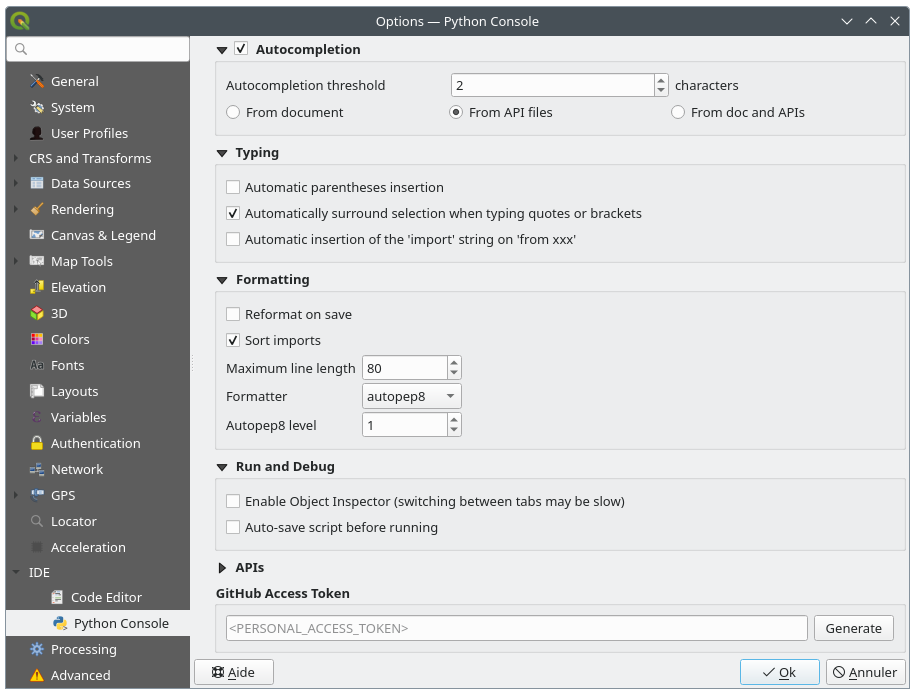
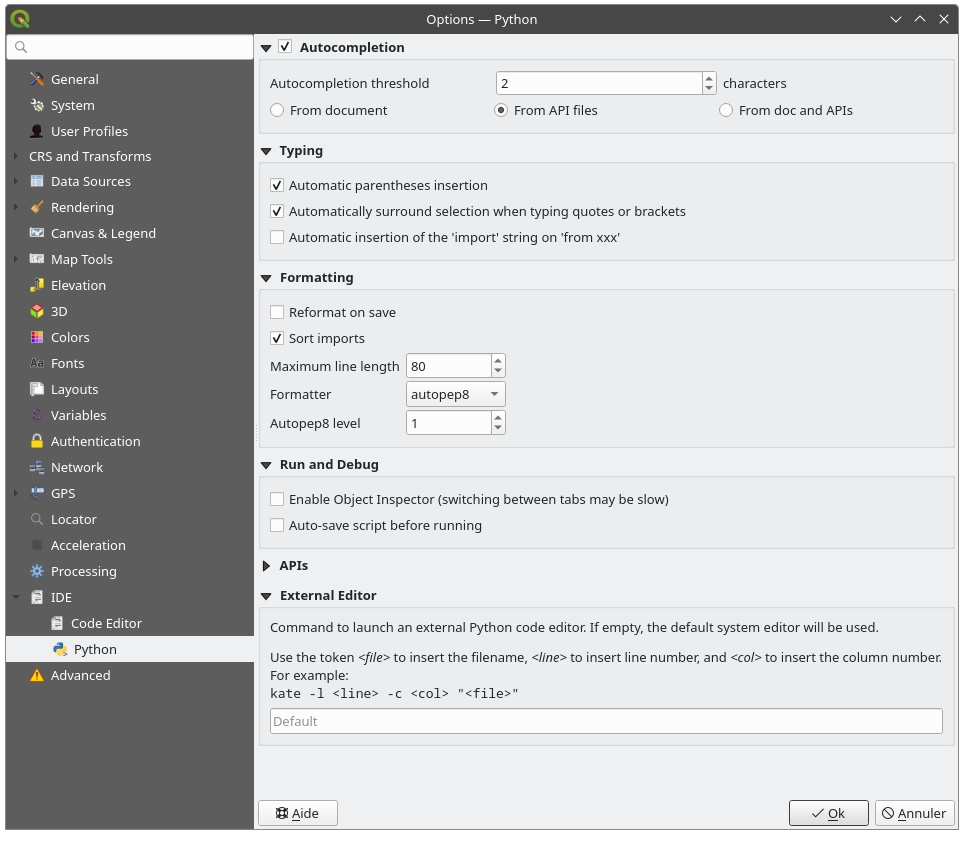
Update Options --> Python settings dialog
refs https://github.com/qgis/QGIS/pull/57825 and https://github.com/qgis/QGIS/pull/57773

Changed region(s): [[0.0, 0.0, 1.0, 0.9928], [0.4885, 0.4212, 0.5191, 0.4513]]

diff --git a/docs/user_manual/introduction/qgis_configuration.rst b/docs/user_manual/introduction/qgis_configuration.rst
@@ -1409,6 +1409,11 @@ libraries to enable OpenCL acceleration.
 IDE settings
 ------------
 
+Under :guilabel:`GitHub access token`, you can generate a personal token
+allowing you to share code snippets from within the Python code editor.
+More details on `GitHub authentication
+<https://docs.github.com/en/authentication/keeping-your-account-and-data-secure/managing-your-personal-access-tokens>`_
+
 .. _code_editor_options:
 
 Code Editor settings
@@ -1444,10 +1449,10 @@ JavaScript). A convenient way to adjust settings.
 
 .. _console_options:
 
-Python Console settings
-.......................
+Python settings
+...............
 
-The |runConsole| :guilabel:`Python Console` settings help you manage and control
+The |runConsole| :guilabel:`Python` settings help you manage and control
 the behavior of the Python editors (:ref:`interactive console <interactive_console>`,
 :ref:`code editor <console_editor>`, :ref:`project macros <project_macros>`,
 :ref:`custom expressions <function_editor>`, ...).
@@ -1462,7 +1467,7 @@ It can also be accessed using the |options| :sup:`Options...` button from:
 .. figure:: img/options_pythonconsole.png
    :align: center
 
-   Python Console settings
+   Python settings
 
 You can specify:
 
@@ -1519,11 +1524,9 @@ For :guilabel:`APIs` you can specify:
   file you have to load at least one ``*.api`` file and then compile it by
   clicking the :guilabel:`Compile APIs...` button.
 
-Under :guilabel:`GitHub access token`, you can generate a personal token
-allowing you to share code snippets from within the Python code editor.
-More details on `GitHub authentication
-<https://docs.github.com/en/authentication/keeping-your-account-and-data-secure/managing-your-personal-access-tokens>`_
-
+The :guilabel:`External Editor` group allows you to provide command line instructions
+to launch an external Python code editor, given a file name, a line and column number.
+If empty, the default system editor will be used.
 
 Processing settings
 -------------------

diff --git a/docs/user_manual/introduction/qgis_gui.rst b/docs/user_manual/introduction/qgis_gui.rst
@@ -1138,7 +1138,7 @@ Plugins
      -
      -
      - :ref:`managing_plugins`
-   * - "|pythonFile| :guilabel:`Python Console`
+   * - |pythonFile| :guilabel:`Python Console`
      - :kbd:`Ctrl+Alt+P`
      - :guilabel:`Plugins`
      - :ref:`console`
